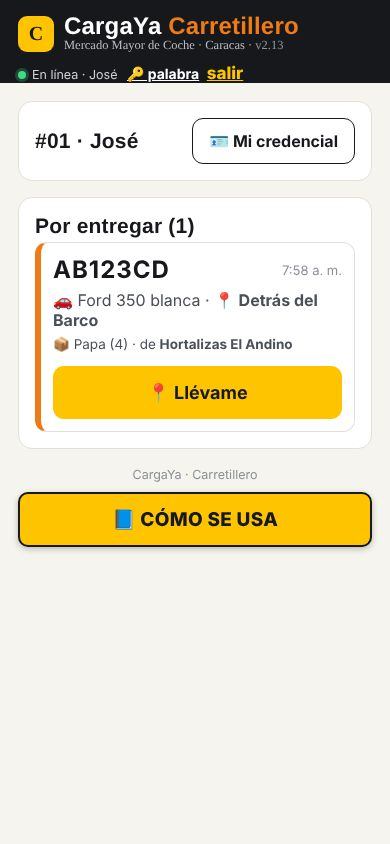
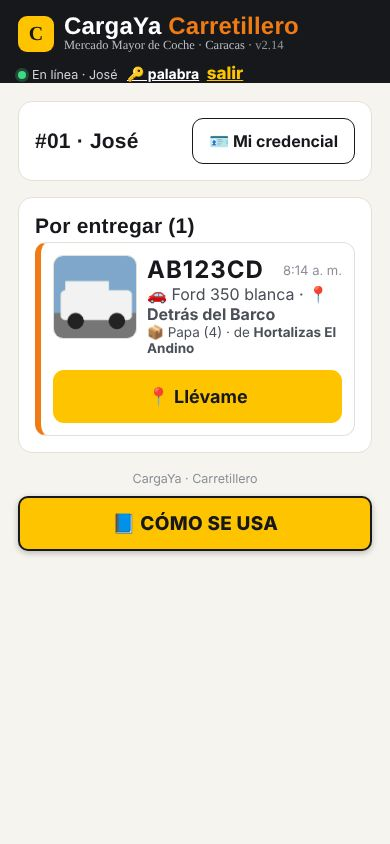
v2.15: foto del vehículo en la lista de entregas del carretillero
Claude-Session: https://claude.ai/code/session_01Sr8uK4d48WrbyhfeYUaAQ1

Changed region(s): [[0.0923, 0.2773, 0.8923, 0.5237], [0.0308, 0.5545, 0.9538, 0.6777], [0.7077, 0.0308, 0.7385, 0.0616]]

diff --git a/v2/ayuda-carretillero.html b/v2/ayuda-carretillero.html
@@ -28,7 +28,7 @@ footer{text-align:center;color:#7c8089;font-size:13px;padding:20px}
 <div class="intro"><p style="margin:0">Con <b>CargaYa Carretillero</b> ves tus entregas en el teléfono y el GPS te lleva hasta el vehículo del comprador. Tu vendedor activa tu teléfono con un código.</p><ol class="indice"><li><a href="#p1">Activa tu teléfono</a></li><li><a href="#p2">Instala el ícono</a></li><li><a href="#p3">Mis entregas</a></li><li><a href="#p4">Llévame: el GPS te guía</a></li><li><a href="#p5">Entrega y muestra tu credencial</a></li><li><a href="#p6">¿Olvidaste tu PIN?</a></li></ol></div>
 <section class="paso" id="p1"><h2><span>1</span>Activa tu teléfono</h2><ol><li>Pide a tu vendedor que te muestre el código: <b>Mis carretilleros → 📱 Activar su teléfono</b>.</li><li>Escanéalo con la <b>cámara</b> de tu teléfono y abre el enlace (o abre CargaYa Carretillero, toca <b>Activar mi teléfono</b> y escribe las letras).</li><li>Revisa que diga <b>tu número</b> de carretillero.</li><li>Escribe tu teléfono, inventa un <b>PIN de 6 números</b> y una <b>palabra secreta</b>, y toca <b>Activar</b>.</li></ol><div class="tip">💡 El código sirve una sola vez y vence en 48 horas. Si vence, pide otro.</div><div class="fotos"><img src="ayuda/k01_activar.jpg" alt="Activa tu teléfono" loading="lazy"></div></section>
 <section class="paso" id="p2"><h2><span>2</span>Instala el ícono</h2><ol><li>Al activar aparece <b>“Instala el ícono”</b>: tócalo y acepta.</li><li>Así abres CargaYa Carretillero con un toque, como cualquier aplicación.</li></ol></section>
-<section class="paso" id="p3"><h2><span>3</span>Mis entregas</h2><ol><li>Cuando un vendedor te asigna una carga, suena un aviso y aparece en <b>Por entregar</b>.</li><li>Ves la <b>placa</b>, el vehículo, la zona, lo que llevas y de qué vendedor es.</li><li>Abajo, <b>Hoy</b> muestra las que ya recibió el comprador.</li></ol><div class="fotos"><img src="ayuda/k02_lista.jpg" alt="Mis entregas" loading="lazy"></div></section>
+<section class="paso" id="p3"><h2><span>3</span>Mis entregas</h2><ol><li>Cuando un vendedor te asigna una carga, suena un aviso y aparece en <b>Por entregar</b>.</li><li>Ves la <b>foto del vehículo</b>, la <b>placa</b>, la zona, lo que llevas y de qué vendedor es. Tocando la foto también se abre el camino.</li><li>Abajo, <b>Hoy</b> muestra las que ya recibió el comprador.</li></ol><div class="fotos"><img src="ayuda/k02_lista.jpg" alt="Mis entregas" loading="lazy"></div></section>
 <section class="paso" id="p4"><h2><span>4</span>Llévame: el GPS te guía</h2><ol><li>Toca <b>📍 Llévame</b> en la entrega.</li><li>El punto <b>azul</b> eres tú; el <b>rojo</b>, el vehículo del comprador. Arriba ves cuántos metros faltan y hacia dónde.</li><li>La línea roja es el camino por los pasillos del mercado.</li><li>Mira la <b>foto del vehículo</b> y la referencia para encontrarlo rápido. Si no lo ves, toca <b>💬 Escribir al comprador</b>.</li></ol><div class="tip">💡 Acepta el permiso de ubicación. Bajo techo el GPS puede fallar unos metros: guíate también por la zona y la foto.</div><div class="fotos"><img src="ayuda/k03_llevame.jpg" alt="Llévame: el GPS te guía" loading="lazy"></div></section>
 <section class="paso" id="p5"><h2><span>5</span>Entrega y muestra tu credencial</h2><ol><li>Al llegar, toca <b>🪪 Mostrar mi credencial al comprador</b>.</li><li>El comprador la escanea con su app y confirma que recibió.</li><li>La entrega pasa sola a <b>Hoy · ✅ Recibido</b>.</li></ol><div class="tip">💡 Tu credencial impresa sigue sirviendo igual: el comprador puede escanear cualquiera de las dos.</div><div class="fotos"><img src="ayuda/k04_credencial.jpg" alt="Entrega y muestra tu credencial" loading="lazy"></div></section>
 <section class="paso" id="p6"><h2><span>6</span>¿Olvidaste tu PIN?</h2><ol><li>Abre CargaYa Carretillero y toca <b>Ya tengo cuenta</b>.</li><li>Toca <b>🔑 ¿Olvidaste tu PIN? Recupéralo aquí</b>.</li><li>Escribe tu teléfono y tu <b>palabra secreta</b>, e inventa un PIN nuevo.</li></ol><div class="tip">💡 Si no recuerdas la palabra, pide a la administración que te cambie el PIN.</div></section>

diff --git a/v2/app.js b/v2/app.js
@@ -70,7 +70,7 @@ function mejorFix(ms=12000){return new Promise((res,rej)=>{
 const S={vendedor:{},comprador:{},carretillero:{},despacho:{},calibracion:{},zona:{},config:{},pago:{},log:[]};
 let conexion=ONLINE?'conectando':'local';
 // Versión visible en la app (también en version.json para detectar copias viejas en el teléfono)
-const VERSION='2.14',VERSION_FECHA='18/11/2026';
+const VERSION='2.15',VERSION_FECHA='18/11/2026';
 const LKEY='cargaya-v2-local',QKEY='cargaya-v2-cola',MEKEY='cargaya-v2-yo';
 let ME=null;try{ME=JSON.parse(localStorage.getItem(MEKEY)||'null')}catch(e){}
 function setME(m){ME=m;try{m?localStorage.setItem(MEKEY,JSON.stringify(m)):localStorage.removeItem(MEKEY)}catch(e){}}
@@ -1316,9 +1316,10 @@ function vEntregas(){const k=S.carretillero[ME.id];
   const es=misEntregas(),hechas=L('despacho').filter(d=>d.carretillero===ME.id&&d.estado!=='en_ruta'&&d.t.creado>=inicioDia(0)).sort((a,b)=>b.t.creado-a.t.creado);
   return `<div class="grid"><div class="card"><div class="row" style="align-items:center"><h2 style="flex:1;margin:0">#${esc(k?.num||'')} · ${esc(k?.nombre||ME.nombre||'')}</h2><button class="btn o" style="flex:0 0 auto" id="kCredBtn">🪪 Mi credencial</button></div></div>
    <div class="card"><h2>Por entregar (${es.length})</h2>${es.map(d=>{const c=comp(d.placa),v=vend(d.vendedor);return `<div class="item" style="border-left:6px solid #f07b14">
+     <div style="display:flex;gap:10px;align-items:flex-start">${c&&c.foto?`<img ${attrFoto(c.foto)} alt="Foto del vehículo" data-kfoto="${esc(d.id)}" style="flex:0 0 84px;width:84px;height:84px;object-fit:cover;border-radius:10px;border:1px solid var(--line)">`:''}<div style="flex:1;min-width:0">
      <div class="top"><b style="font-size:24px;letter-spacing:1px">${esc(d.placa)}</b><span class="hint">${hhmm(d.t.creado)}</span></div>
      <div class="meta" style="font-size:16px">${c?`🚗 ${esc(c.vehiculo||'')}${c.zona?` · 📍 <b>${esc(c.zona)}</b>`:''}`:'Buscando datos del vehículo…'}</div>
-     <div class="meta">📦 ${esc(resumenItems(d))} · de <b>${esc(v?.nombre||'vendedor')}</b></div>
+     <div class="meta">📦 ${esc(resumenItems(d))} · de <b>${esc(v?.nombre||'vendedor')}</b></div></div></div>
      <button class="btn y big" data-kir="${esc(d.id)}" style="width:100%;margin-top:8px">📍 Llévame</button></div>`}).join('')||'<div class="empty">No tienes entregas pendientes 👍<br>Cuando un vendedor te asigne una carga, aparece aquí con un aviso.</div>'}</div>
    ${hechas.length?`<div class="card"><h2>Hoy (${hechas.length})</h2>${hechas.map(d=>`<div class="meta" style="padding:4px 0">${hhmm(d.t.creado)} · <b>${esc(d.placa)}</b> · ${esc(resumenItems(d))} · ${d.estado==='entregado'?'✅ Recibido':'⚠ Reclamo'}</div>`).join('')}</div>`:''}</div>`}
 function mapaK(d){const c=comp(d.placa),dest=posComp(c),v=vend(d.vendedor),pv=v?posVend(v):null;
@@ -1461,6 +1462,7 @@ const bind={
     document.querySelectorAll('[data-akn]').forEach(i=>i.onkeydown=e=>{if(e.key==='Enter'){e.preventDefault();document.querySelector(`[data-aka="${i.dataset.akn}"]`).click()}});
   },
   entregas(){if($('kCredBtn'))$('kCredBtn').onclick=()=>{kCred=true;render();scrollTo(0,0)};if($('kCredX'))$('kCredX').onclick=()=>{kCred=false;render()};
+    document.querySelectorAll('[data-kfoto]').forEach(b=>b.onclick=()=>{kEntrega=b.dataset.kfoto;kPos=null;kErr='';seguirGPS();render();scrollTo(0,0)});
     document.querySelectorAll('[data-kir]').forEach(b=>b.onclick=()=>{kEntrega=b.dataset.kir;kPos=null;kErr='';seguirGPS();render();scrollTo(0,0)});
     if($('kVolver'))$('kVolver').onclick=()=>cerrarEntrega()},
   misCarr(){const v=vendActual();if(!v)return;

diff --git a/v2/index.html b/v2/index.html
@@ -11,7 +11,7 @@
   if(r==='comprador'||q.get('k')){location.replace('comprador.html'+location.search.replace(/([?&])rol=comprador&?/,'$1').replace(/[?&]$/,''));return}})();</script>
 <link rel="preconnect" href="https://fonts.googleapis.com">
 <link href="https://fonts.googleapis.com/css2?family=Barlow:wght@400;500;600;700&family=Barlow+Condensed:wght@600;700;800&family=Share+Tech+Mono&display=swap" rel="stylesheet">
-<link rel="stylesheet" href="app.css?v=2.14">
+<link rel="stylesheet" href="app.css?v=2.15">
 <style>.mods{display:grid;gap:14px;max-width:560px;margin:0 auto}.mod{display:flex;gap:16px;align-items:center;background:#fff;border:1px solid var(--line);border-radius:16px;padding:18px;text-decoration:none;color:var(--ink)}
 .mod img{width:64px;height:64px}.mod b{font-family:"Barlow Condensed";font-size:26px;display:block}.mod span{color:var(--ink2)}</style>
 </head>

diff --git a/v2/carretillero.html b/v2/carretillero.html
@@ -10,9 +10,9 @@
 <link rel="apple-touch-icon" href="icon-carretillero-180.png"><link rel="icon" type="image/png" sizes="192x192" href="icon-carretillero-192.png">
 <link rel="preconnect" href="https://fonts.googleapis.com">
 <link href="https://fonts.googleapis.com/css2?family=Barlow:wght@400;500;600;700&family=Barlow+Condensed:wght@600;700;800&family=Share+Tech+Mono&display=swap" rel="stylesheet">
-<link rel="stylesheet" href="app.css?v=2.14">
+<link rel="stylesheet" href="app.css?v=2.15">
 <script src="lib/supabase-2.119.0.js"></script>
-<script src="config.js?v=2.14"></script>
+<script src="config.js?v=2.15"></script>
 </head>
 <body>
 <header>
@@ -27,6 +27,6 @@
 <div class="toast" id="toast"></div>
 <div id="print"></div>
 <script>window.CARGAYA_MODULO='carretillero';</script>
-<script src="app.js?v=2.14"></script>
+<script src="app.js?v=2.15"></script>
 </body>
 </html>

diff --git a/v2/comprador.html b/v2/comprador.html
@@ -10,9 +10,9 @@
 <link rel="apple-touch-icon" href="icon-comprador-180.png"><link rel="icon" type="image/png" sizes="192x192" href="icon-comprador-192.png">
 <link rel="preconnect" href="https://fonts.googleapis.com">
 <link href="https://fonts.googleapis.com/css2?family=Barlow:wght@400;500;600;700&family=Barlow+Condensed:wght@600;700;800&family=Share+Tech+Mono&display=swap" rel="stylesheet">
-<link rel="stylesheet" href="app.css?v=2.14">
+<link rel="stylesheet" href="app.css?v=2.15">
 <script src="lib/supabase-2.119.0.js"></script>
-<script src="config.js?v=2.14"></script>
+<script src="config.js?v=2.15"></script>
 </head>
 <body>
 <header>
@@ -27,6 +27,6 @@
 <div class="toast" id="toast"></div>
 <div id="print"></div>
 <script>window.CARGAYA_MODULO='comprador';</script>
-<script src="app.js?v=2.14"></script>
+<script src="app.js?v=2.15"></script>
 </body>
 </html>

diff --git a/v2/vendedor.html b/v2/vendedor.html
@@ -10,9 +10,9 @@
 <link rel="apple-touch-icon" href="icon-vendedor-180.png"><link rel="icon" type="image/png" sizes="192x192" href="icon-vendedor-192.png">
 <link rel="preconnect" href="https://fonts.googleapis.com">
 <link href="https://fonts.googleapis.com/css2?family=Barlow:wght@400;500;600;700&family=Barlow+Condensed:wght@600;700;800&family=Share+Tech+Mono&display=swap" rel="stylesheet">
-<link rel="stylesheet" href="app.css?v=2.14">
+<link rel="stylesheet" href="app.css?v=2.15">
 <script src="lib/supabase-2.119.0.js"></script>
-<script src="config.js?v=2.14"></script>
+<script src="config.js?v=2.15"></script>
 </head>
 <body>
 <header>
@@ -27,6 +27,6 @@
 <div class="toast" id="toast"></div>
 <div id="print"></div>
 <script>window.CARGAYA_MODULO='vendedor';</script>
-<script src="app.js?v=2.14"></script>
+<script src="app.js?v=2.15"></script>
 </body>
 </html>

diff --git a/v2/admin.html b/v2/admin.html
@@ -10,9 +10,9 @@
 <link rel="apple-touch-icon" href="icon-admin-180.png"><link rel="icon" type="image/png" sizes="192x192" href="icon-admin-192.png">
 <link rel="preconnect" href="https://fonts.googleapis.com">
 <link href="https://fonts.googleapis.com/css2?family=Barlow:wght@400;500;600;700&family=Barlow+Condensed:wght@600;700;800&family=Share+Tech+Mono&display=swap" rel="stylesheet">
-<link rel="stylesheet" href="app.css?v=2.14">
+<link rel="stylesheet" href="app.css?v=2.15">
 <script src="lib/supabase-2.119.0.js"></script>
-<script src="config.js?v=2.14"></script>
+<script src="config.js?v=2.15"></script>
 </head>
 <body>
 <header>
@@ -27,6 +27,6 @@
 <div class="toast" id="toast"></div>
 <div id="print"></div>
 <script>window.CARGAYA_MODULO='admin';</script>
-<script src="app.js?v=2.14"></script>
+<script src="app.js?v=2.15"></script>
 </body>
 </html>

diff --git a/v2/sw.js b/v2/sw.js
@@ -1,6 +1,6 @@
 // CargaYa · service worker: permite instalar la app en el teléfono y abrirla aunque falle la señal.
 // Siempre intenta la red primero (para no quedarse con versiones viejas); si no hay señal, usa la última copia.
-const CACHE='cargaya-v2.14';
+const CACHE='cargaya-v2.15';
 const BASE=['vendedor.html','comprador.html','admin.html','carretillero.html','ayuda-vendedor.html','ayuda-comprador.html','ayuda-admin.html','ayuda-carretillero.html','app.js','app.css','config.js','lib/supabase-2.119.0.js','lib/qrcode.js','lib/jsQR.js'];
 self.addEventListener('install',e=>{e.waitUntil(caches.open(CACHE).then(c=>c.addAll(BASE).catch(()=>{})).then(()=>self.skipWaiting()))});
 self.addEventListener('activate',e=>{e.waitUntil(self.clients.claim())});

diff --git a/pruebas/e2e_carretillero_movil.py b/pruebas/e2e_carretillero_movil.py
@@ -33,7 +33,7 @@ with sync_playwright() as p:
     cC,C=ctx(b,'C',URL+'comprador.html',errs,geo={'latitude':10.439806,'longitude':-66.928368,'accuracy':5})
     C.fill('#lNombre','Bodega Rosa');C.fill('#lTel','0414-5551020');C.fill('#lPlaca','ab-123cd');C.fill('#lPin','654321');C.click('#lGo');C.wait_for_timeout(2000)
     C.select_option('#rZona',label='Detrás del Barco');C.fill('#rVeh','Ford 350 blanca');C.fill('#rRef','al lado del poste azul');C.click('#rGPS');C.wait_for_timeout(4000);shot(C,'c_gps');P('gps comprador:',[x for x in C.locator('#app .hint').all_inner_texts() if 'GPS' in x or 'plano' in x][:2])
-    C.click('text=Guardar y empezar a comprar');C.wait_for_timeout(1200)
+    C.set_input_files('#rFoto','/tmp/full/inv.png');C.wait_for_timeout(2500);C.click('text=Guardar y empezar a comprar');C.wait_for_timeout(1200)
     P('comprador:',[(c['id'],c.get('zona'),c.get('px')) for c in R('compradores')])
     # carretillero activa su teléfono (GPS dentro del mercado)
     cK,K=ctx(b,'K',URL+f'carretillero.html?act={cod}',errs,geo={'latitude':10.440644,'longitude':-66.929215,'accuracy':9});K.set_viewport_size({'width':390,'height':844});K.wait_for_timeout(1800)
@@ -51,9 +51,9 @@ with sync_playwright() as p:
     V.locator('.it-desc').first.fill('Papa');V.locator('.it-bul').first.fill('4')
     V.locator('[data-ksel]').first.click();V.wait_for_timeout(200);V.click('#fDesp button[type=submit]');V.wait_for_timeout(1000)
     if V.locator('#fvListo').count():V.click('#fvListo')
-    K.wait_for_timeout(2500);P('K recibe en vivo:',K.locator('[data-kir]').count(),'| toast:',t(K,'#toast'));shot(K,'k_lista')
+    K.wait_for_timeout(2500);P('K recibe en vivo:',K.locator('[data-kir]').count(),'| foto en lista:',K.locator('img[data-kfoto]').count(),K.evaluate("[...document.querySelectorAll('img[data-kfoto]')].map(i=>i.naturalWidth+' '+i.src.slice(0,60))"),'| toast:',t(K,'#toast'));shot(K,'k_lista')
     K.wait_for_timeout(3200);K.locator('[data-kir]').first.click();K.wait_for_timeout(3000);P('K llévame:',t(K,'#kMapaWrap')[:80].replace('\n',' '));shot(K,'k_llevame')
-    P('ruta dibujada:',K.locator('#kMapaWrap polyline.route').count(),'| punto yo:',K.locator('#kMapaWrap text:has-text("TÚ")').count())
+    P('foto grande:',K.evaluate("[...document.querySelectorAll('#app img')].map(i=>i.alt+' '+i.naturalWidth+' '+i.complete)"));P('ruta dibujada:',K.locator('#kMapaWrap polyline.route').count(),'| punto yo:',K.locator('#kMapaWrap text:has-text("TÚ")').count())
     K.click('#kCredBtn');K.wait_for_timeout(1200);P('credencial QR:',K.locator('img[alt="Mi credencial"]').count());shot(K,'k_cred');K.click('#kCredX');K.wait_for_timeout(500)
     # el comprador confirma escaneando (simulado con su app)
     did=R('despachos')[0]['id'];C.wait_for_timeout(1000);C.click('#nav button[data-v=comprador]');C.wait_for_timeout(500)

diff --git a/pruebas/generar_instructivos.py b/pruebas/generar_instructivos.py
@@ -87,7 +87,7 @@ A=[('Entra',T('Abre <b>CargaYa Administración</b> en la PC o el teléfono.','Es
 # ------------- CARRETILLERO -------------
 K=[('Activa tu teléfono',T('Pide a tu vendedor que te muestre el código: <b>Mis carretilleros → 📱 Activar su teléfono</b>.','Escanéalo con la <b>cámara</b> de tu teléfono y abre el enlace (o abre CargaYa Carretillero, toca <b>Activar mi teléfono</b> y escribe las letras).','Revisa que diga <b>tu número</b> de carretillero.','Escribe tu teléfono, inventa un <b>PIN de 6 números</b> y una <b>palabra secreta</b>, y toca <b>Activar</b>.')+tip('El código sirve una sola vez y vence en 48 horas. Si vence, pide otro.'),['k01_activar'],0),
  ('Instala el ícono',T('Al activar aparece <b>“Instala el ícono”</b>: tócalo y acepta.','Así abres CargaYa Carretillero con un toque, como cualquier aplicación.'),[],0),
- ('Mis entregas',T('Cuando un vendedor te asigna una carga, suena un aviso y aparece en <b>Por entregar</b>.','Ves la <b>placa</b>, el vehículo, la zona, lo que llevas y de qué vendedor es.','Abajo, <b>Hoy</b> muestra las que ya recibió el comprador.'),['k02_lista'],0),
+ ('Mis entregas',T('Cuando un vendedor te asigna una carga, suena un aviso y aparece en <b>Por entregar</b>.','Ves la <b>foto del vehículo</b>, la <b>placa</b>, la zona, lo que llevas y de qué vendedor es. Tocando la foto también se abre el camino.','Abajo, <b>Hoy</b> muestra las que ya recibió el comprador.'),['k02_lista'],0),
  ('Llévame: el GPS te guía',T('Toca <b>📍 Llévame</b> en la entrega.','El punto <b>azul</b> eres tú; el <b>rojo</b>, el vehículo del comprador. Arriba ves cuántos metros faltan y hacia dónde.','La línea roja es el camino por los pasillos del mercado.','Mira la <b>foto del vehículo</b> y la referencia para encontrarlo rápido. Si no lo ves, toca <b>💬 Escribir al comprador</b>.')+tip('Acepta el permiso de ubicación. Bajo techo el GPS puede fallar unos metros: guíate también por la zona y la foto.'),['k03_llevame'],0),
  ('Entrega y muestra tu credencial',T('Al llegar, toca <b>🪪 Mostrar mi credencial al comprador</b>.','El comprador la escanea con su app y confirma que recibió.','La entrega pasa sola a <b>Hoy · ✅ Recibido</b>.')+tip('Tu credencial impresa sigue sirviendo igual: el comprador puede escanear cualquiera de las dos.'),['k04_credencial'],0),
  ('¿Olvidaste tu PIN?',T('Abre CargaYa Carretillero y toca <b>Ya tengo cuenta</b>.','Toca <b>🔑 ¿Olvidaste tu PIN? Recupéralo aquí</b>.','Escribe tu teléfono y tu <b>palabra secreta</b>, e inventa un PIN nuevo.')+tip('Si no recuerdas la palabra, pide a la administración que te cambie el PIN.'),[],0)]

diff --git a/pruebas/fakesb.py b/pruebas/fakesb.py
@@ -97,7 +97,11 @@ async def storage_upload(req):
         return cors(web.json_response({"error": "Unauthorized", "message": "new row violates row-level security policy", "statusCode": "403"}, status=400))
     data = await req.read()
     if req.content_type.startswith("multipart/"):
-        reader = await req.multipart() if False else None
+        bnd = b"--" + req.content_type_extra.get("boundary", "").encode() if hasattr(req, "content_type_extra") else data.split(b"\r\n", 1)[0]
+        bnd = data.split(b"\r\n", 1)[0]
+        for part in data.split(bnd):
+            if b"filename=" in part:
+                data = part.split(b"\r\n\r\n", 1)[1].rsplit(b"\r\n", 1)[0]; break
     fp = os.path.join(STORE, bucket, path); os.makedirs(os.path.dirname(fp), exist_ok=True)
     open(fp, "wb").write(data)
     return cors(web.json_response({"Key": f"{bucket}/{path}", "Id": str(uuid.uuid4()), "path": path, "id": str(uuid.uuid4()), "fullPath": f"{bucket}/{path}"}))
